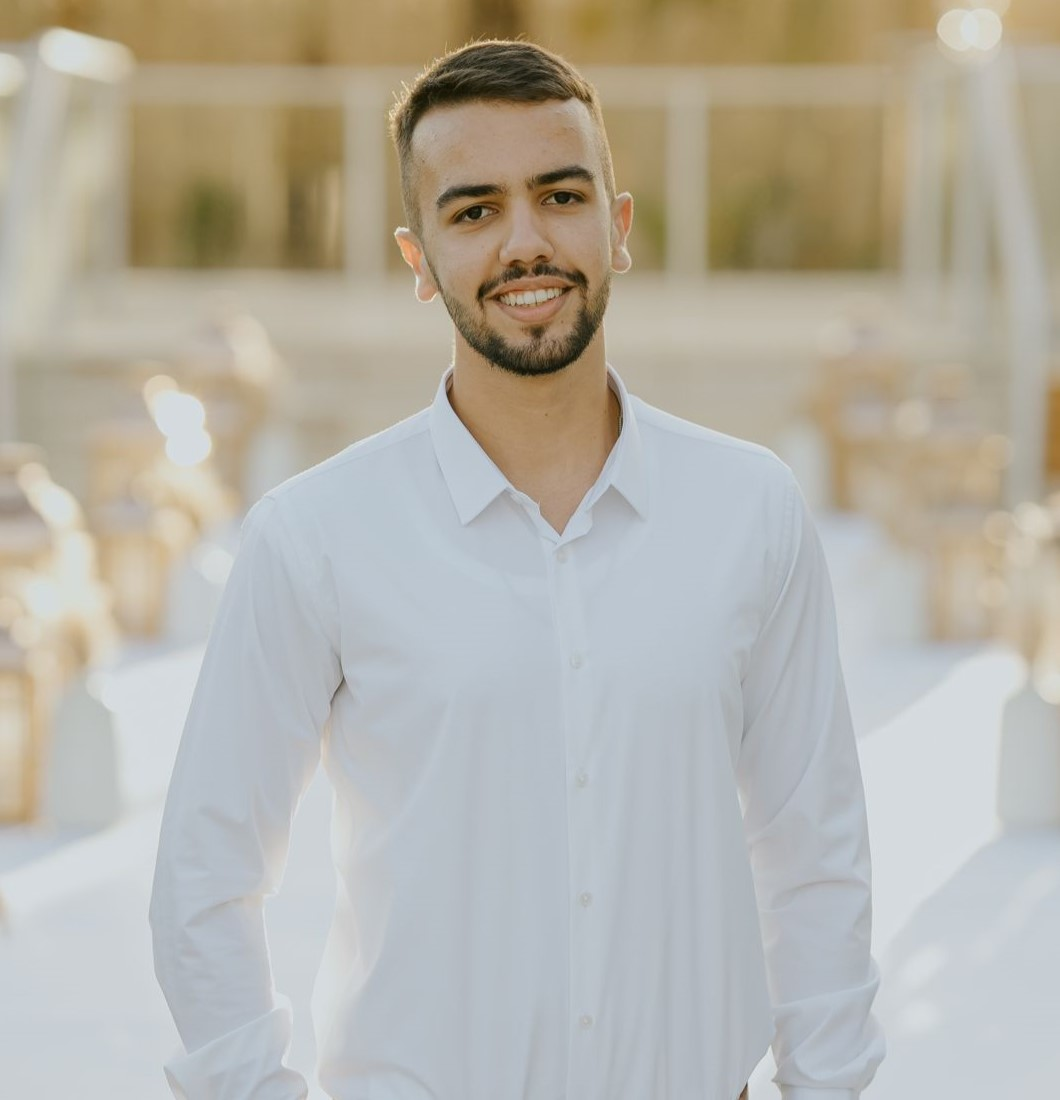
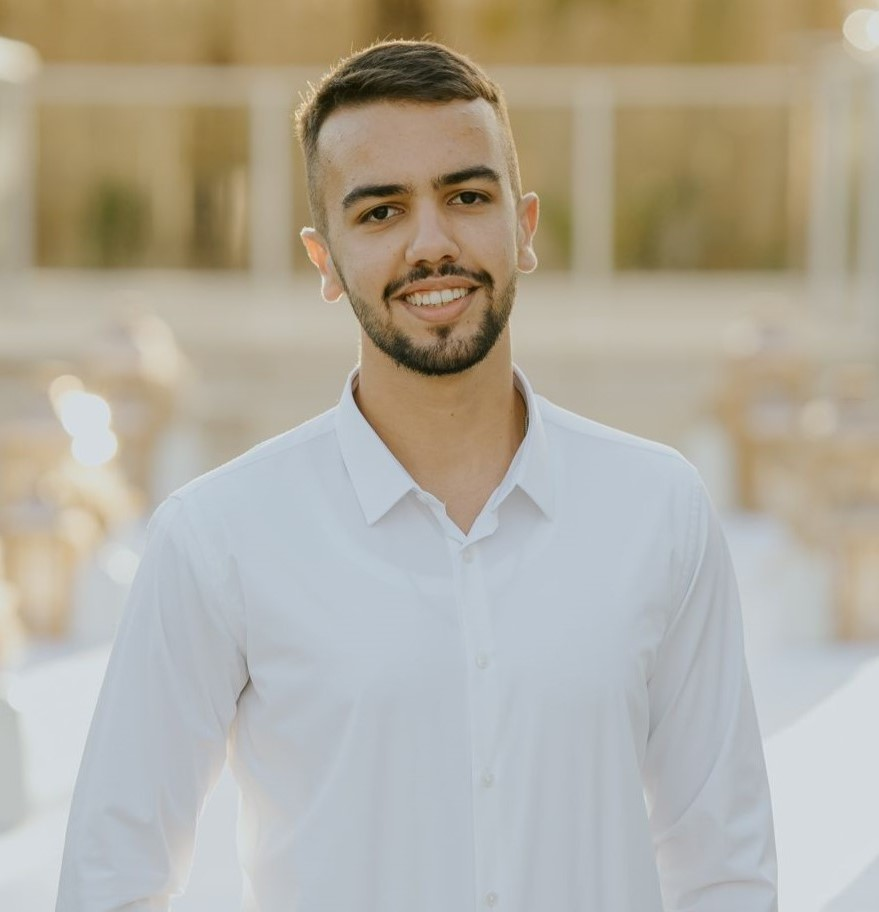
responsive design

diff --git a/part A/SportActive/css/index.css b/part A/SportActive/css/index.css
@@ -173,6 +173,31 @@ audio {
     background-color: #3D3D3D; /* רקע תואם לעיצוב הכללי */
 }
 
+.section-divider {
+    border-bottom: 2px solid #888; 
+    margin: 30px 0; 
+}
+
+
+.section {
+    margin: 40px 0; 
+    padding: 20px; 
+}
+
+.section h2 {
+    font-size: 2rem;
+    border-bottom: 3px solid orange; 
+    padding-bottom: 10px;
+    margin-bottom: 20px;
+    color: white;
+    text-align: center;
+}
+
+.section h4 {
+    color: #ddd;
+    text-align: center;
+}
+
 @media screen and (max-width: 768px) {
     .opening h1 {
         font-size: 3rem;
@@ -268,29 +293,9 @@ audio {
     table.schedule-table {
         font-size: 0.6em;
     }
+
+    .opening {
+        height: 525px;
+    }
 }
 
-.section-divider {
-    border-bottom: 2px solid #888; 
-    margin: 30px 0; 
-}
-
-
-.section {
-    margin: 40px 0; 
-    padding: 20px; 
-}
-
-.section h2 {
-    font-size: 2rem;
-    border-bottom: 3px solid orange; 
-    padding-bottom: 10px;
-    margin-bottom: 20px;
-    color: white;
-    text-align: center;
-}
-
-.section h4 {
-    color: #ddd;
-    text-align: center;
-}

diff --git a/part A/SportActive/css/service.css b/part A/SportActive/css/service.css
@@ -1,3 +1,7 @@
+html{
+
+}
+
 body {
     font-family: Arial, sans-serif;
     margin: 0;
@@ -92,11 +96,14 @@ h1 {
 
 @media screen and (max-width: 360px) {
     .grid-container {
-        grid-template-columns: 1fr; /* עמודה אחת בלבד */
-        gap: 10px; /* ריווח קטן יותר */
+        grid-template-columns: 1fr; 
+        grid-template-rows: repeat(6, 1fr);
+        gap: 10px; 
+        height: auto;
     }
 
     .grid-item {
-        width: 100%; /* הגדר שהכרטיס יתפוס את כל הרוחב */
+        width: 90%; 
+        height: 150px;
     }
 }

diff --git a/part A/SportActive/css/about.css b/part A/SportActive/css/about.css
@@ -167,3 +167,36 @@ video {
         width: 30%;
     }
 }
+
+@media screen and (max-width: 360px){
+    video {
+        height: 200px;
+        width: 300px;
+    }
+
+    .timeline {
+        display: none;
+    }
+
+    .testimonial-container {
+        flex-direction: column;
+    }
+
+    .testimonial-item {
+        width: 80%;
+        align-self: center;
+    }
+
+    .testimonials h2 {
+        font-size: 1.5em; 
+    }
+
+    .testimonial-img {
+        width: 60px;
+        height: 60px; 
+    }
+
+    .testimonial-item blockquote {
+        font-size: 1em; 
+    }
+}

diff --git a/part A/SportActive/css/nav.css b/part A/SportActive/css/nav.css
@@ -63,7 +63,6 @@ footer {
 
 @media screen and (max-width: 768px) {
     .custom-navbar {
-        width: 95%; /* סרגל רחב יותר במסכים קטנים */
         height: 200%;
     }
 
@@ -86,7 +85,6 @@ footer {
 
 @media screen and (max-width: 480px) {
     .custom-navbar {
-        width: 100%; /* שימוש מלא ברוחב המסך */
         height: 200%;
         border-radius: 5px;
     }

diff --git a/part A/SportActive/about.html b/part A/SportActive/about.html
@@ -36,7 +36,7 @@
         <h2>Our Team</h2>
         <div class="team">
             <div class="team-member">
-                <img src="images\Uriel.jpeg" alt="Team Member 1">
+                <img src="images\Uriel2.jpeg" alt="Team Member 1">
                 <h3>Uriel Mangisto</h3>
                 <p>Founder</p>
             </div>
